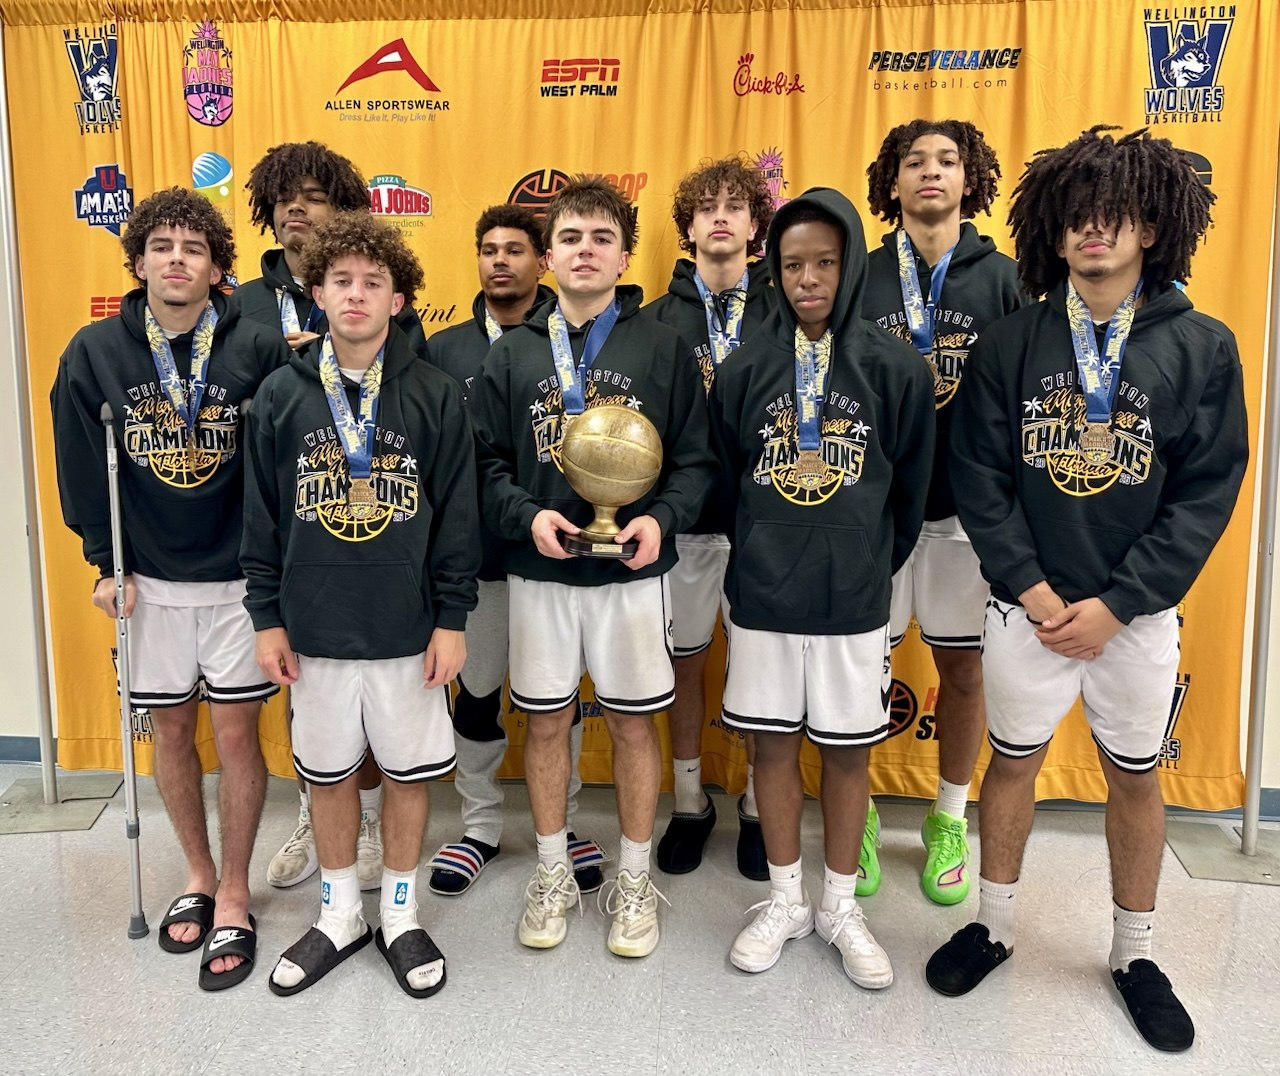
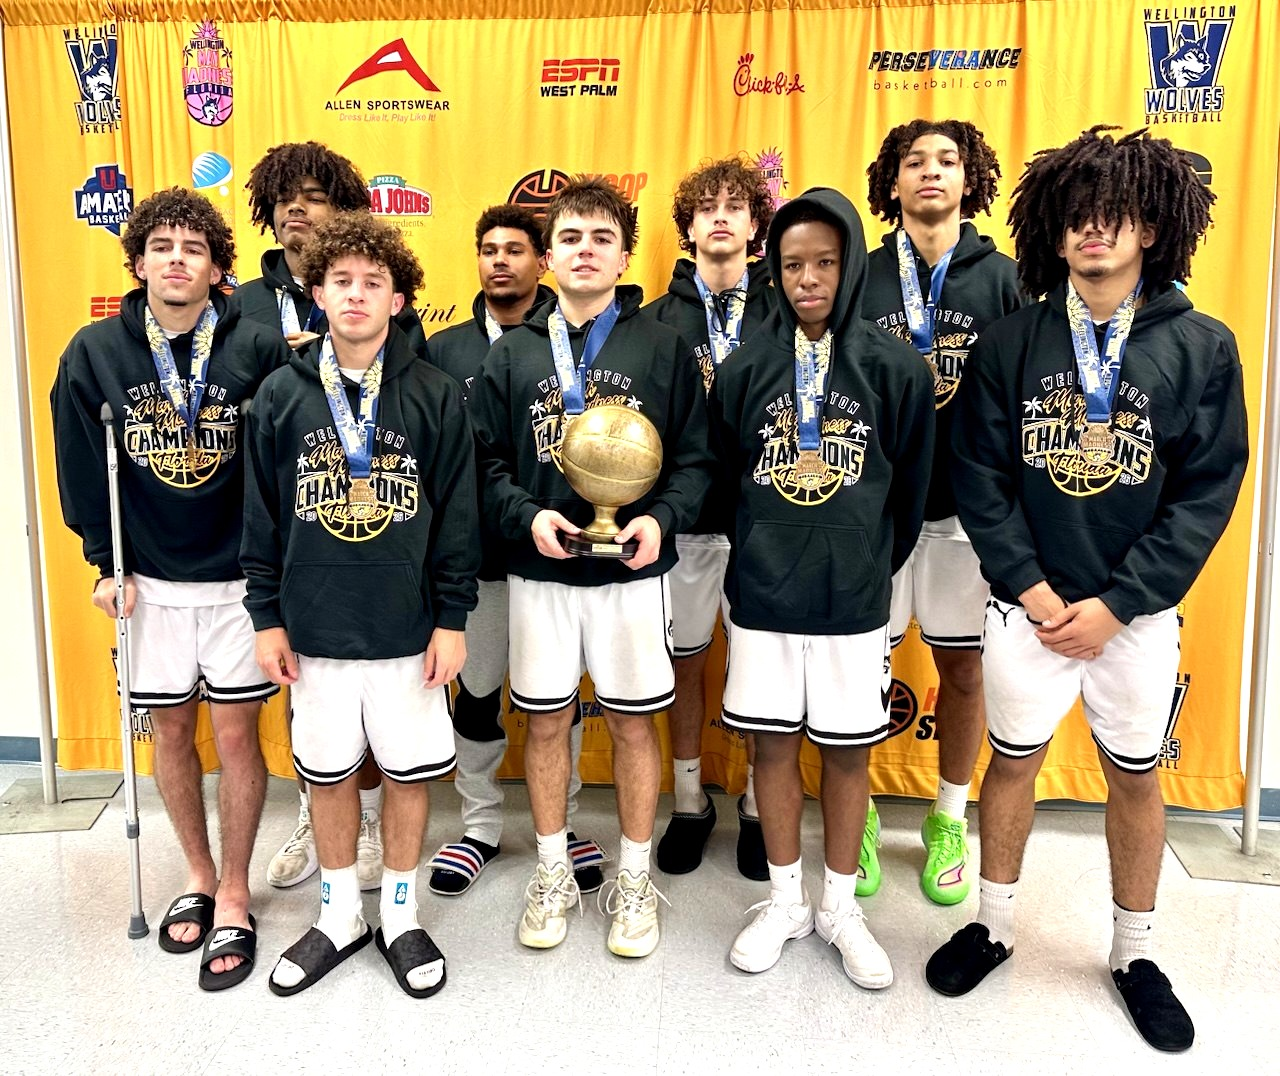
Fix hero section: lighten overlay, brighten image, reduce height for better team visibility

diff --git a/src/pages/Home.js b/src/pages/Home.js
@@ -43,9 +43,9 @@ const HomeContainer = styled.div`
 
 const HeroSection = styled.section`
   position: relative;
-  height: 100vh;
-  min-height: 600px;
-  max-height: 900px;
+  height: 80vh;
+  min-height: 500px;
+  max-height: 750px;
   overflow: hidden;
   display: flex;
   align-items: center;
@@ -59,9 +59,9 @@ const HeroSection = styled.section`
     height: 100%;
     background: linear-gradient(
       135deg,
-      rgba(0, 21, 41, 0.75) 0%,
-      rgba(0, 31, 63, 0.6) 40%,
-      rgba(0, 31, 63, 0.45) 100%
+      rgba(0, 21, 41, 0.55) 0%,
+      rgba(0, 31, 63, 0.35) 40%,
+      rgba(0, 31, 63, 0.2) 100%
     );
     z-index: 1;
   }
@@ -86,7 +86,7 @@ const HeroImage = styled.div`
   height: 100%;
   background-image: url(${teamImageUrl});
   background-size: cover;
-  background-position: center center;
+  background-position: center 25%;
   animation: ${scaleIn} 1.2s ease-out;
 `;
 
